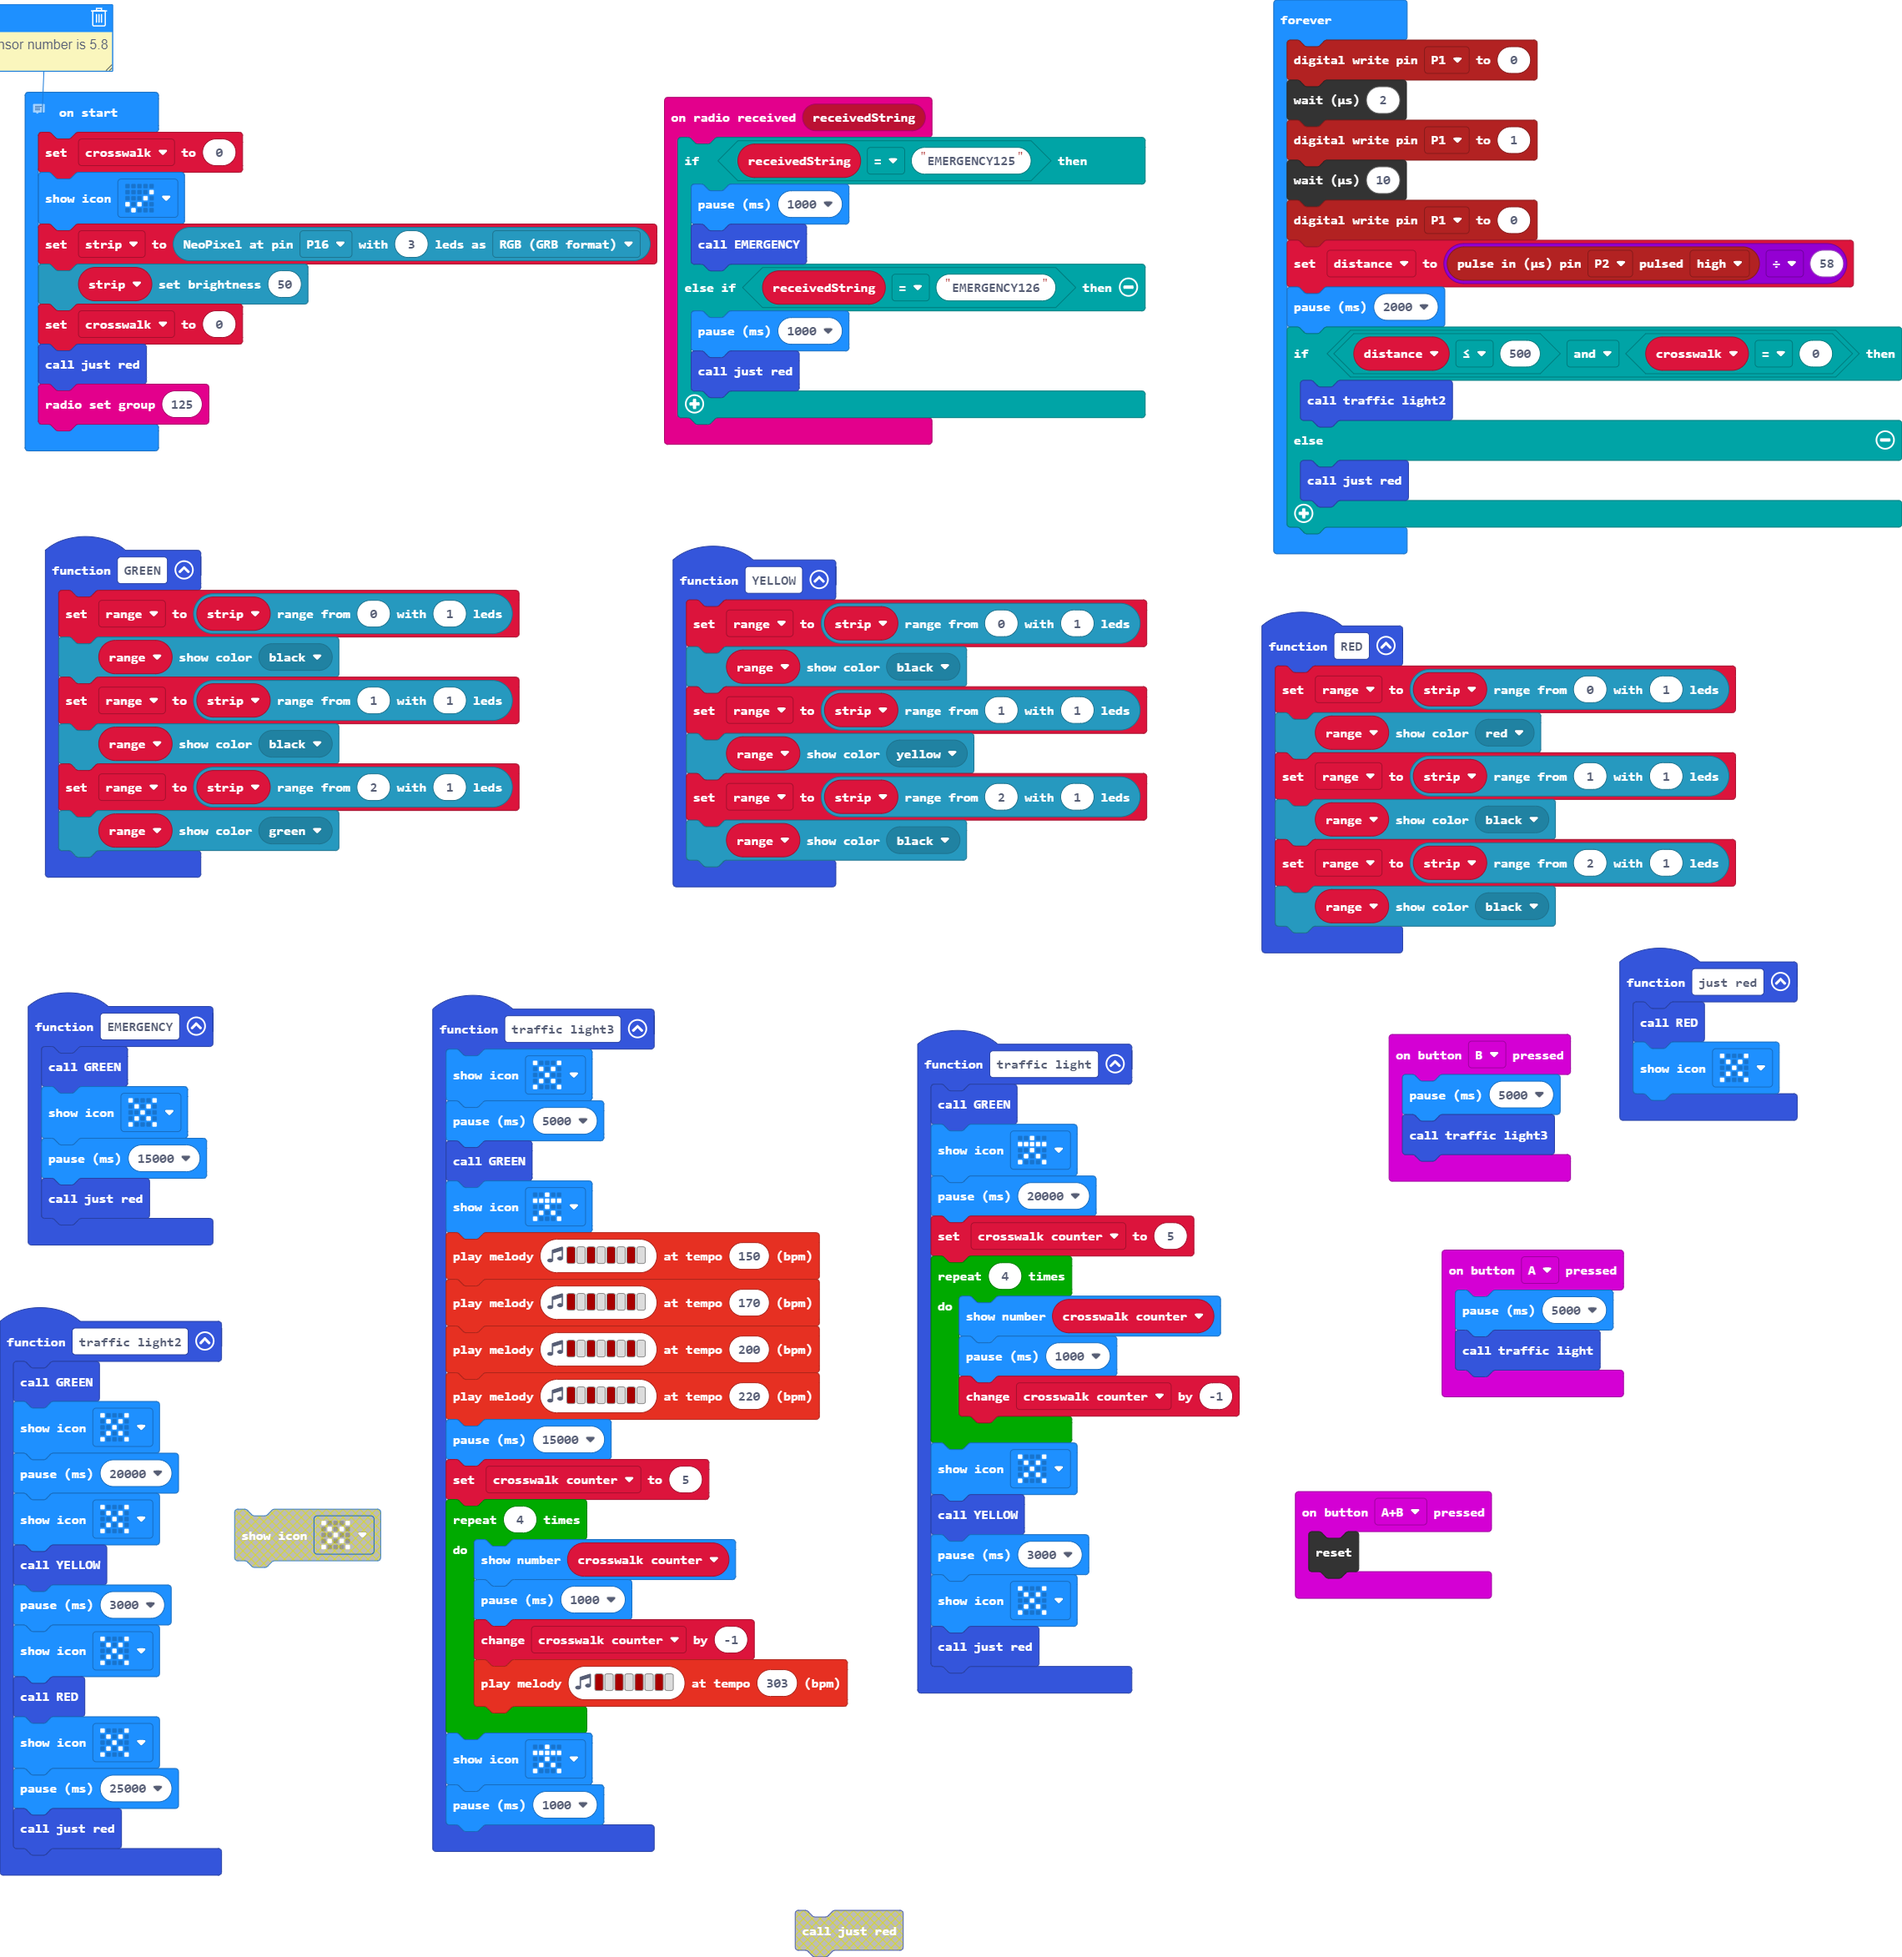
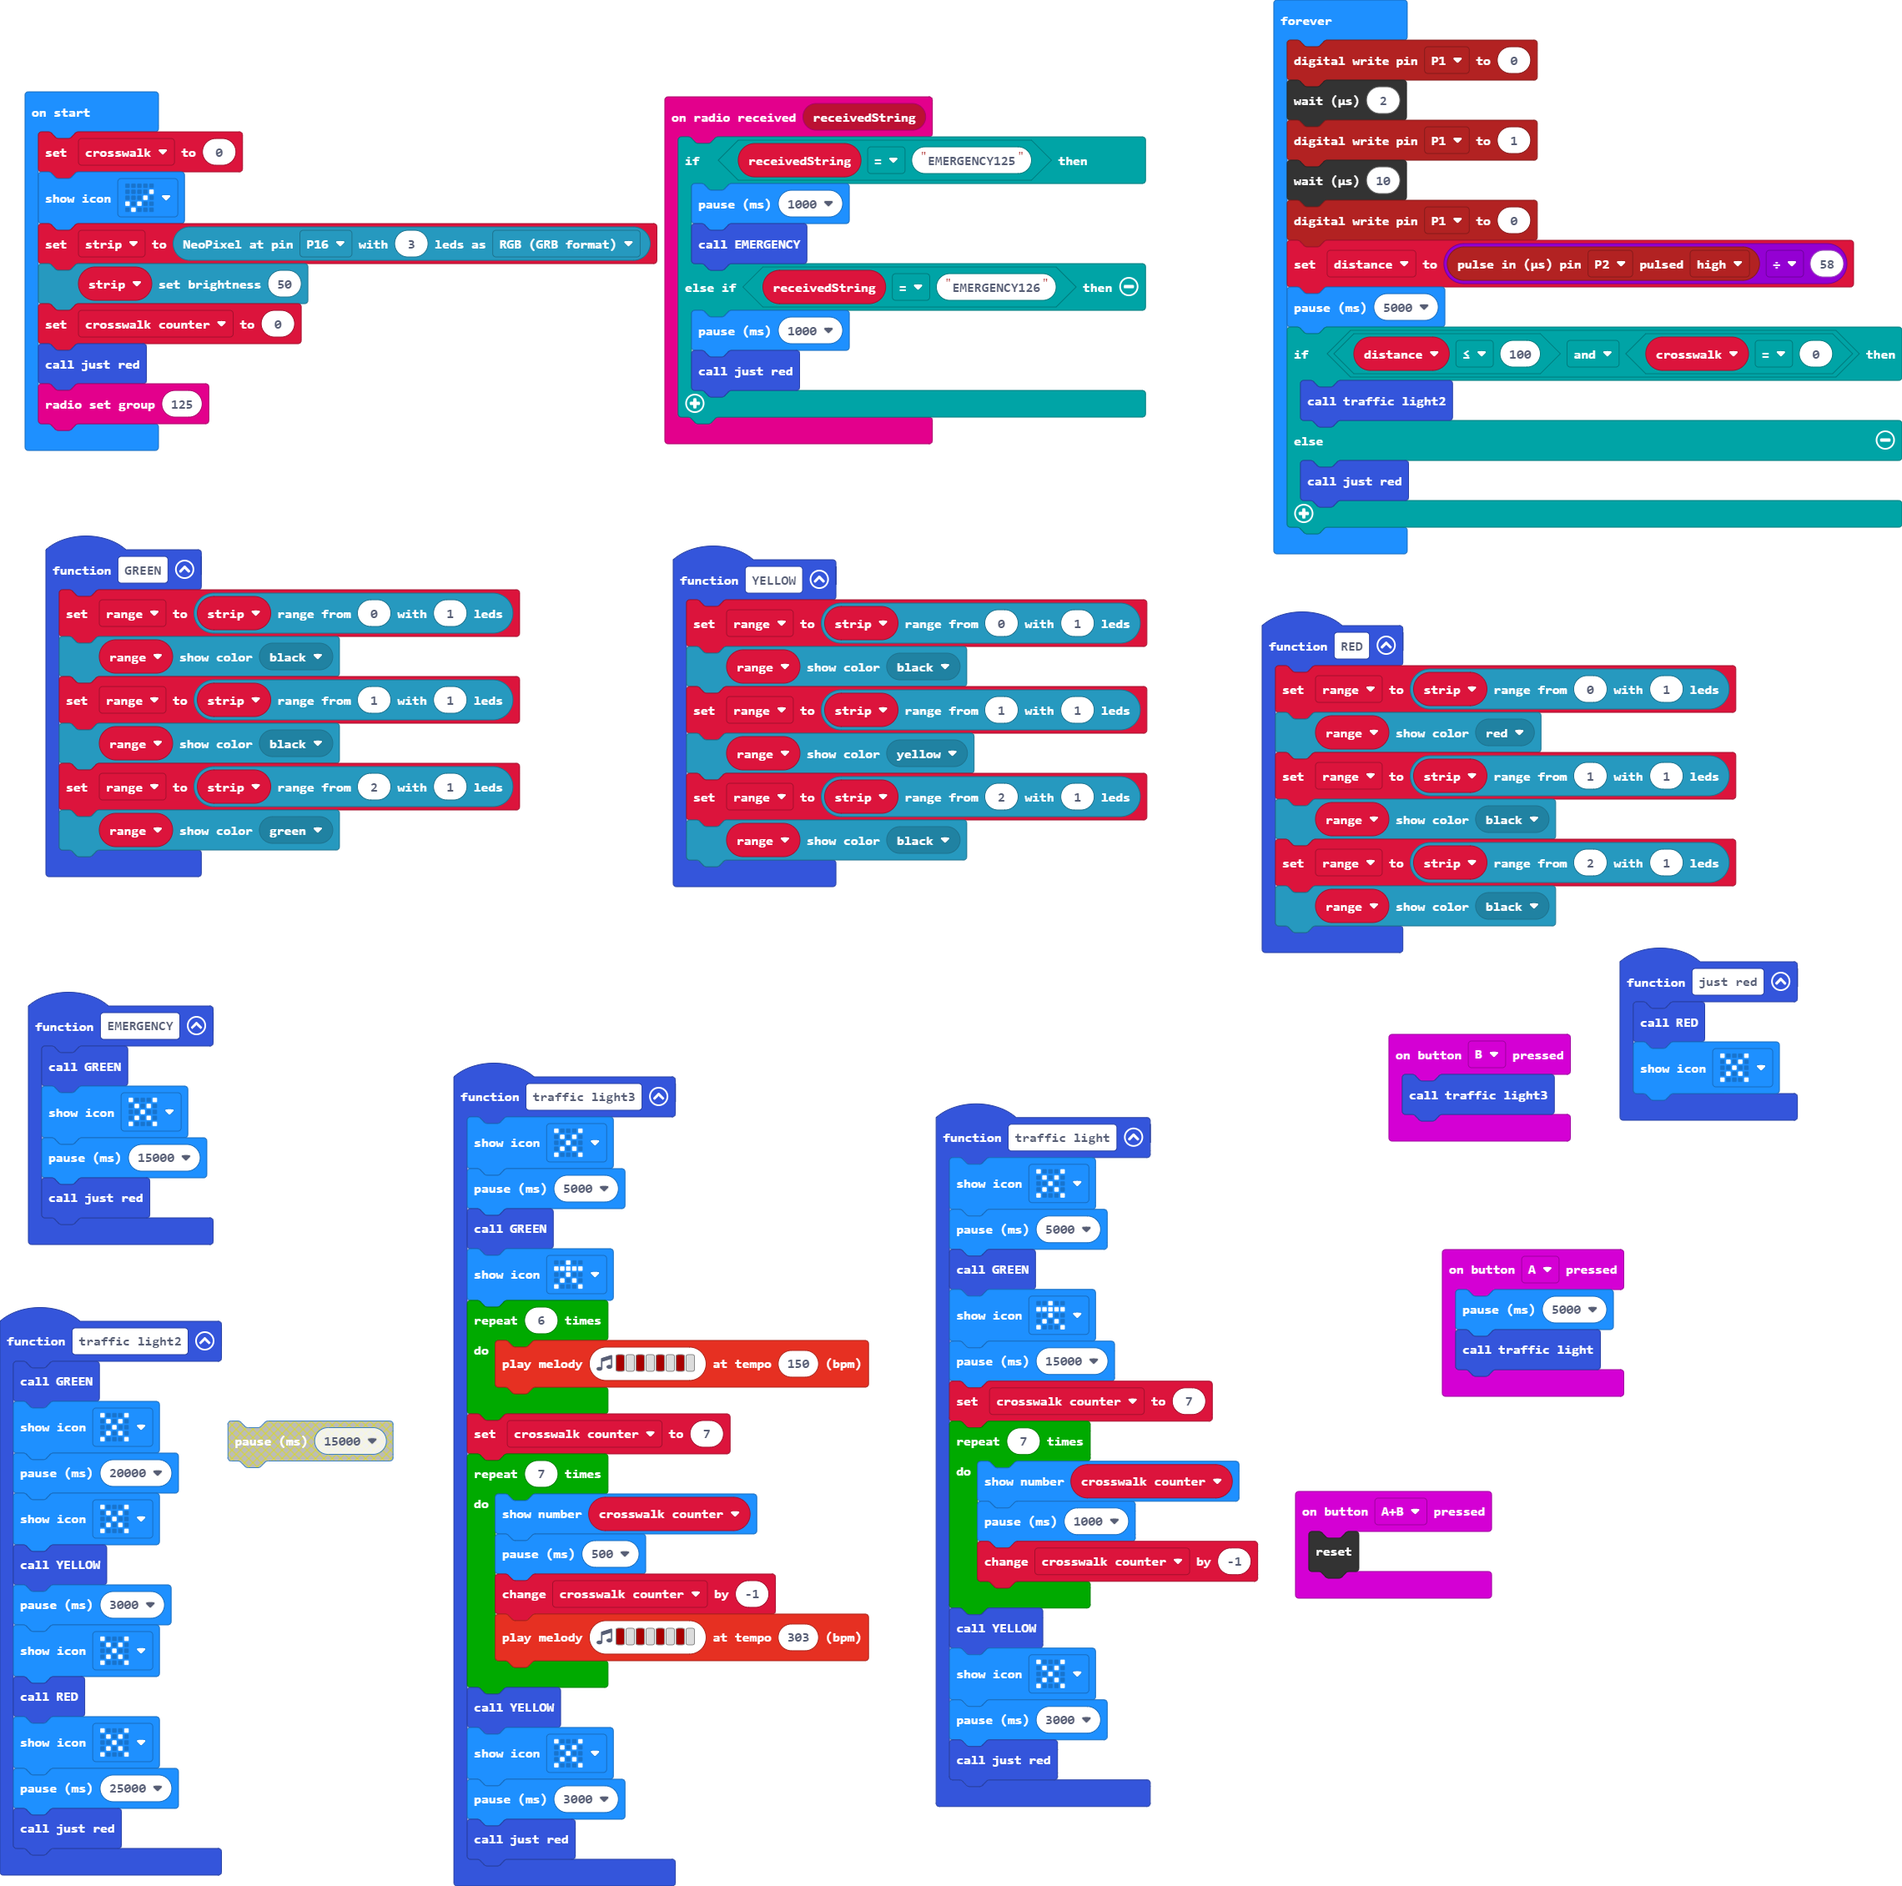
Update main.blocks, main.ts

diff --git a/main.ts b/main.ts
@@ -3,39 +3,40 @@ function traffic_light3 () {
     basic.pause(5000)
     GREEN()
     basic.showIcon(IconNames.StickFigure)
-    music.playMelody("C5 - C5 - C5 - C5 - ", 150)
-    music.playMelody("C5 - C5 - C5 - C5 - ", 170)
-    music.playMelody("C5 - C5 - C5 - C5 - ", 200)
-    music.playMelody("C5 - C5 - C5 - C5 - ", 220)
-    basic.pause(15000)
-    crosswalk_counter = 5
-    for (let index = 0; index < 4; index++) {
+    for (let index = 0; index < 6; index++) {
+        music.playMelody("C5 - C5 - C5 - C5 - ", 150)
+    }
+    crosswalk_counter = 7
+    for (let index = 0; index < 7; index++) {
         basic.showNumber(crosswalk_counter)
-        basic.pause(1000)
+        basic.pause(500)
         crosswalk_counter += -1
         music.playMelody("C5 - C5 - C5 - C5 - ", 303)
     }
-    basic.showIcon(IconNames.StickFigure)
-    basic.pause(1000)
+    YELLOW()
+    basic.showIcon(IconNames.No)
+    basic.pause(3000)
+    just_red()
 }
 input.onButtonPressed(Button.A, function () {
     basic.pause(5000)
     traffic_light()
 })
 function traffic_light () {
+    basic.showIcon(IconNames.No)
+    basic.pause(5000)
     GREEN()
     basic.showIcon(IconNames.StickFigure)
-    basic.pause(20000)
-    crosswalk_counter = 5
-    for (let index = 0; index < 4; index++) {
+    basic.pause(15000)
+    crosswalk_counter = 7
+    for (let index = 0; index < 7; index++) {
         basic.showNumber(crosswalk_counter)
         basic.pause(1000)
         crosswalk_counter += -1
     }
-    basic.showIcon(IconNames.No)
     YELLOW()
-    basic.pause(3000)
     basic.showIcon(IconNames.No)
+    basic.pause(3000)
     just_red()
 }
 function RED () {
@@ -84,7 +85,6 @@ radio.onReceivedString(function (receivedString) {
     }
 })
 input.onButtonPressed(Button.B, function () {
-    basic.pause(5000)
     traffic_light3()
 })
 function EMERGENCY () {
@@ -101,7 +101,6 @@ function YELLOW () {
     range = strip.range(2, 1)
     range.showColor(neopixel.colors(NeoPixelColors.Black))
 }
-// sensor number is 5.8
 let distance = 0
 let range: neopixel.Strip = null
 let crosswalk_counter = 0
@@ -110,7 +109,7 @@ let crosswalk = 0
 basic.showIcon(IconNames.Yes)
 strip = neopixel.create(DigitalPin.P16, 3, NeoPixelMode.RGB)
 strip.setBrightness(50)
-crosswalk = 0
+crosswalk_counter = 0
 just_red()
 radio.setGroup(125)
 basic.forever(function () {
@@ -120,8 +119,8 @@ basic.forever(function () {
     control.waitMicros(10)
     pins.digitalWritePin(DigitalPin.P1, 0)
     distance = pins.pulseIn(DigitalPin.P2, PulseValue.High) / 58
-    basic.pause(2000)
-    if (distance <= 500 && crosswalk == 0) {
+    basic.pause(5000)
+    if (distance <= 100 && crosswalk == 0) {
         traffic_light2()
     } else {
         just_red()
